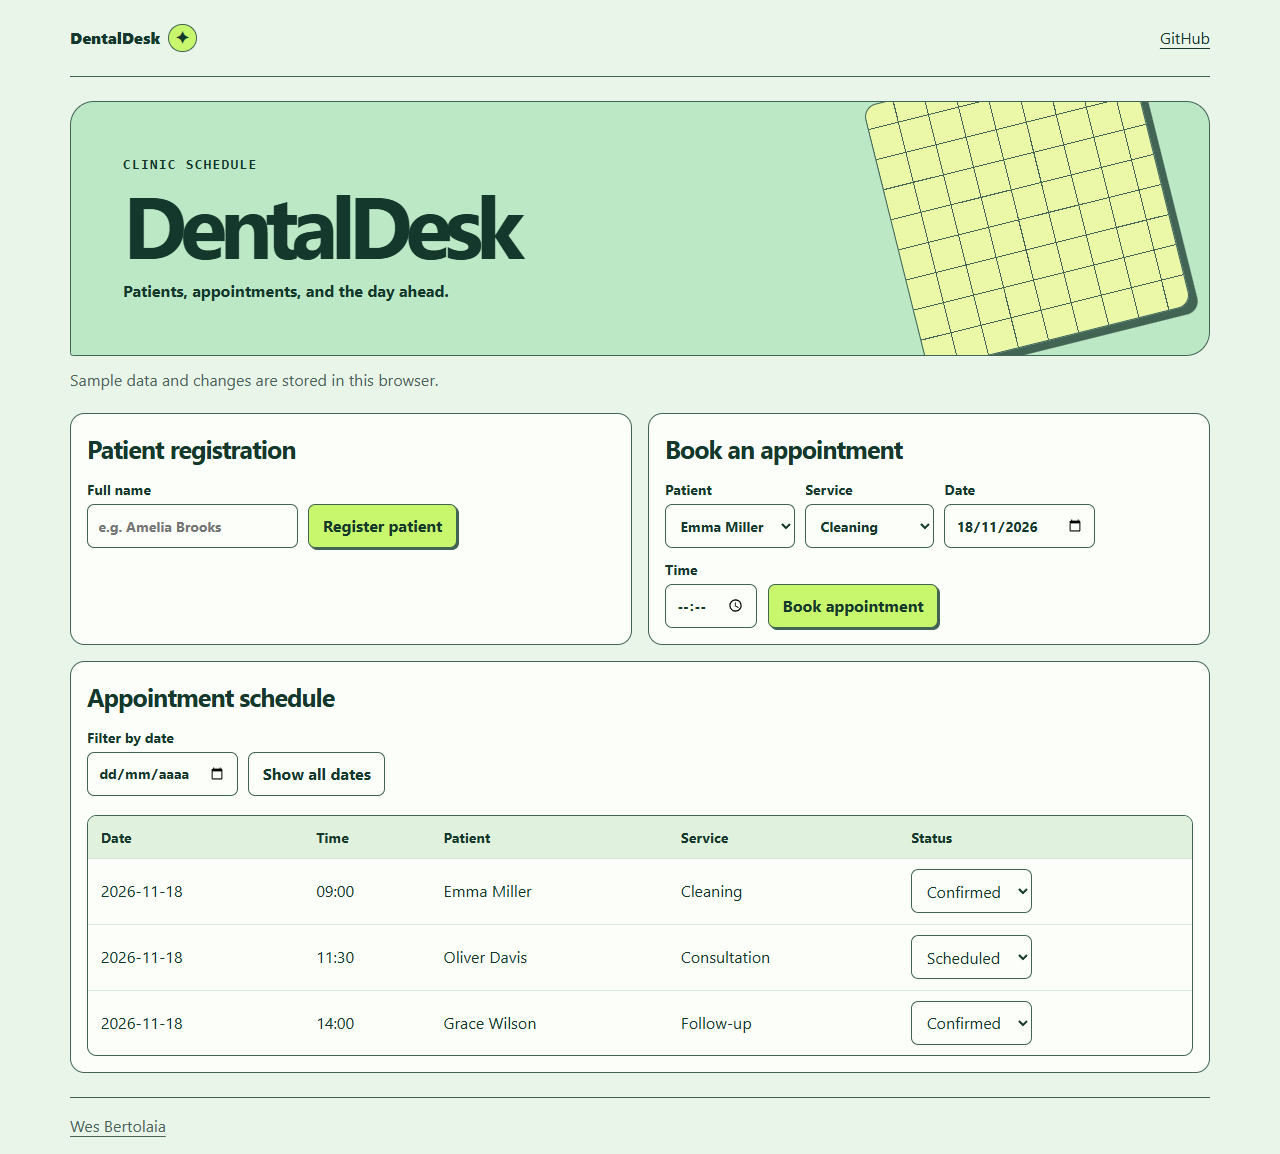
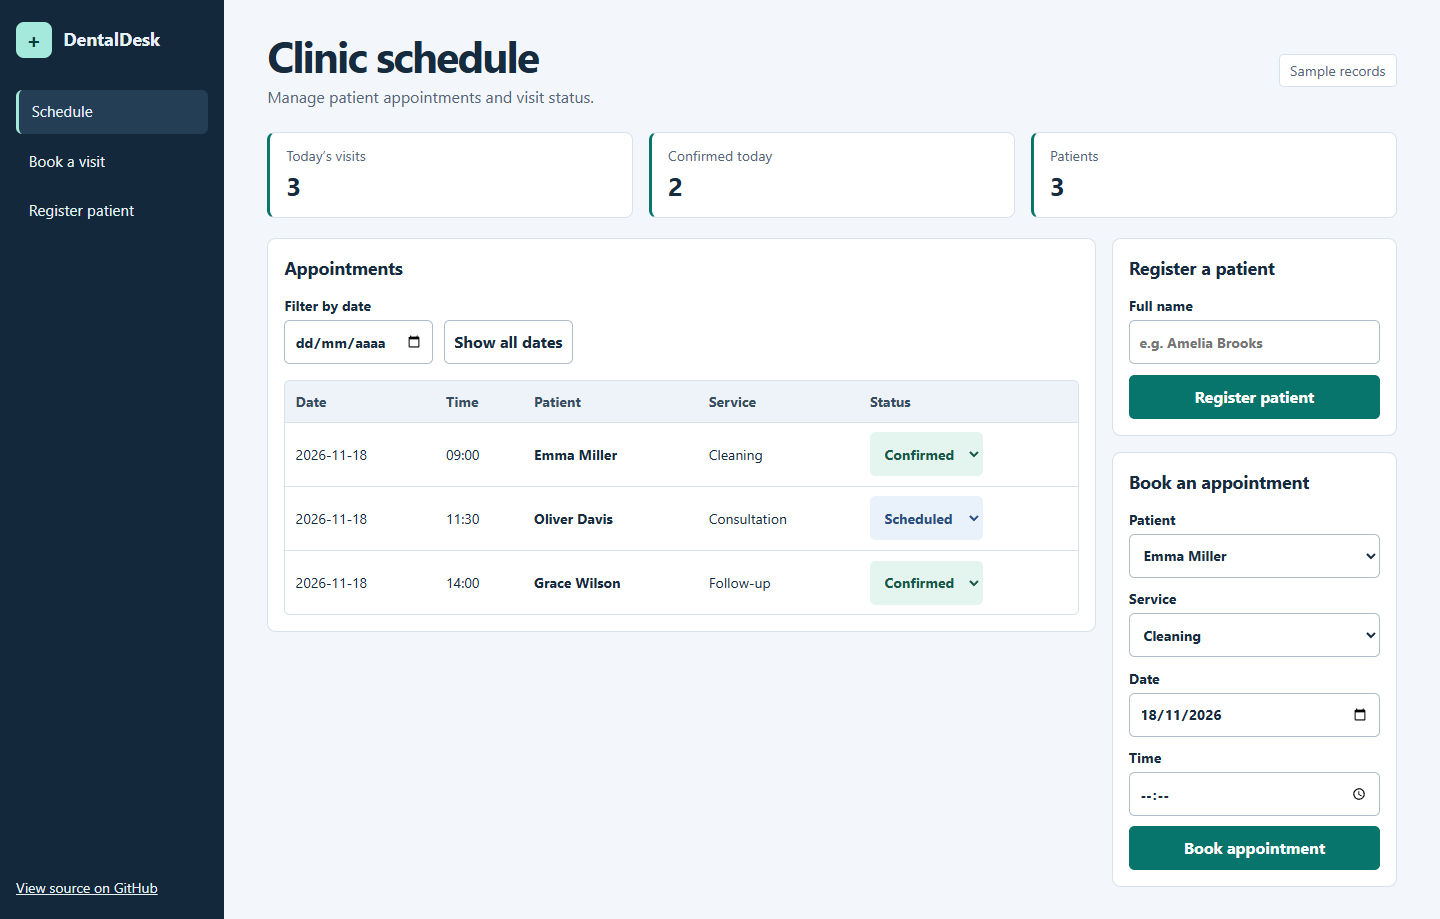
Redesign DentalDesk as a clinical workspace

diff --git a/public/style.css b/public/style.css
@@ -1,68 +1,70 @@
-
 :root {
   color-scheme: light;
-  --ink: #15382c;
-  --paper: #eaf5ea;
-  --accent: #c8f66c;
-  --line: #416454;
-  --muted: #4b6459;
-  --white: #fcfff9;
+  --ink: #172b3e;
+  --muted: #526579;
+  --line: #d9e2ea;
+  --teal: #08756d;
+  --white: #fff;
+  font: 16px/1.5 "Segoe UI", system-ui, sans-serif;
   color: var(--ink);
-  font: 16px/1.5 system-ui, sans-serif;
+  background: #f3f6fa;
 }
 * { box-sizing: border-box; }
-body { margin: 0; background: var(--paper); }
-a { color: inherit; text-underline-offset: .25em; }
-.shell { width: min(1140px, calc(100% - 42px)); margin-inline: auto; }
-.top, footer { display: flex; align-items: center; justify-content: space-between; gap: 1rem; padding-block: 1rem; }
-.top { border-bottom: 1px solid var(--line); }
-.brand { display: flex; align-items: center; gap: .5rem; min-height: 44px; font-weight: 850; text-decoration: none; }
-.brand span { display: grid; place-items: center; width: 1.8rem; height: 1.8rem; background: var(--accent); border: 1px solid var(--line); border-radius: 50%; font-size: 0; }
-.brand span::before { content: "✦"; font-size: 1rem; }
-#demo { padding-block: 1.5rem; }
-.demo-header {
-  position: relative; overflow: hidden; isolation: isolate;
-  min-height: 205px; padding: clamp(1.4rem, 5vw, 3.25rem);
-  border: 1px solid var(--line); border-radius: 1.5rem 1.5rem 1.5rem .2rem;
-  background: #bde8c6;
-}
-.demo-header::after {
-  position: absolute; z-index: -1;
-  content: ""; width: 270px; height: 270px; right: 4%; top: -32px;
-  background: repeating-linear-gradient(0deg, transparent 0 30px, #416454 30px 31px), repeating-linear-gradient(90deg, #eaf8a8 0 30px, #416454 30px 31px);
-  border: 1px solid var(--line); border-radius: .85rem;
-  transform: rotate(-14deg); box-shadow: 7px 8px 0 var(--line);
-}
-.eyebrow { margin: 0 0 .45rem; font: 700 .875rem/1.5 ui-monospace, monospace; letter-spacing: .09em; }
-h1, h3, p { margin: 0; }
-h1 { font-size: clamp(2.65rem, 8vw, 5.45rem); line-height: .95; letter-spacing: -.085em; }
-h3 { font-size: clamp(1.25rem, 3vw, 1.55rem); letter-spacing: -.035em; }
-.tagline { margin-top: .85rem; font-weight: 650; }
-.help { margin-block: .75rem 1.35rem; color: var(--muted); }
-.demo-app { min-width: 0; }
-.demo-app dental-desk { display: grid; grid-template-columns: 1fr 1fr; gap: 1rem; }
-.work-card { min-width: 0; padding: 1rem; border: 1px solid var(--line); border-radius: .9rem; background: var(--white); }
-.schedule { grid-column: 1 / -1; }
-.work-card form { margin-bottom: 0; }
-.work-card:first-child input { width: min(100%, 220px); }
-form, .filters { display: flex; flex-wrap: wrap; align-items: end; gap: .65rem; margin-block: .75rem 1.2rem; }
-label { display: grid; gap: .25rem; min-width: 0; max-width: 100%; font-size: .875rem; font-weight: 650; }
-input, select, button { min-height: 44px; max-width: 100%; padding: .48rem .65rem; border: 1px solid var(--line); border-radius: .45rem; background: var(--white); color: var(--ink); font: inherit; }
-button { padding-inline: .85rem; background: var(--accent); font-weight: 750; box-shadow: 2px 2px 0 var(--line); cursor: pointer; }
-button:hover { background: #b7ee51; }
-button:active { box-shadow: none; transform: translate(2px, 2px); }
-button.secondary { background: var(--white); box-shadow: none; }
-:focus-visible { outline: 3px solid #296655; outline-offset: 3px; }
-.notice:not(:empty) { margin-block: .5rem; padding: .5rem .75rem; border-left: 3px solid var(--line); background: var(--white); }
-.table-wrap { overflow: auto; border: 1px solid var(--line); border-radius: .6rem; background: var(--white); }
-table { width: 100%; border-collapse: collapse; white-space: nowrap; text-align: left; }
-th, td { padding: .65rem .8rem; border-bottom: 1px solid #d9e9dd; }
-th { font-size: .875rem; background: #e0f1dd; }
+body { margin: 0; display: grid; grid-template-columns: 224px minmax(0, 1fr); min-height: 100vh; }
+a { color: inherit; }
+.sidebar { background: #13283b; color: #e8f1f8; padding: 1.35rem 1rem; display: flex; flex-direction: column; gap: 2rem; }
+.brand { display: flex; align-items: center; gap: .7rem; font-weight: 750; font-size: 1.125rem; text-decoration: none; }
+.brand-mark { display: grid; place-items: center; width: 36px; height: 36px; border-radius: .5rem; background: #a4e9dc; color: #093f39; font: 750 1.4rem/1 system-ui, sans-serif; }
+.sidebar nav { display: grid; gap: .3rem; }
+.sidebar nav a { border-radius: .4rem; padding: .68rem .8rem; text-decoration: none; font-size: .95rem; }
+.sidebar nav a:hover, .sidebar nav a:focus-visible { background: #2b485f; }
+.sidebar nav a[href="#schedule"] { background: #243e55; border-left: 3px solid #a4e9dc; }
+.sidebar > a:last-child { margin-top: auto; font-size: .875rem; }
+.workspace { min-width: 0; padding: 2rem clamp(1rem, 3vw, 3rem); }
+.demo-header { display: flex; justify-content: space-between; align-items: center; flex-wrap: wrap; gap: 1rem; margin-bottom: 1.4rem; }
+h1, h2, p { margin: 0; }
+h1 { font-size: clamp(1.9rem, 4vw, 2.7rem); line-height: 1.1; letter-spacing: -.045em; }
+h2 { font-size: 1.1rem; }
+.help { margin-top: .35rem; color: var(--muted); }
+.demo-label { padding: .3rem .65rem; border: 1px solid var(--line); border-radius: .3rem; background: var(--white); color: var(--muted); font-size: .875rem; }
+.metrics { display: grid; grid-template-columns: repeat(3, minmax(0, 1fr)); gap: 1rem; margin: 0 0 1.25rem; }
+.metrics div { background: var(--white); border: 1px solid var(--line); border-left: 3px solid var(--teal); border-radius: .5rem; padding: .8rem 1rem; }
+.metrics dt { color: var(--muted); font-size: .875rem; }
+.metrics dd { margin: 0; font-size: 1.6rem; font-weight: 700; font-variant-numeric: tabular-nums; }
+.desk-grid { display: grid; grid-template-columns: minmax(0, 1fr) 285px; gap: 1rem; align-items: start; }
+.actions { display: grid; gap: 1rem; }
+.panel { min-width: 0; background: var(--white); border: 1px solid var(--line); border-radius: .55rem; padding: 1rem; scroll-margin-top: 1rem; }
+form, .filters { display: grid; gap: .65rem; margin-top: .85rem; }
+.filters { display: flex; flex-wrap: wrap; align-items: end; margin-bottom: 1rem; }
+label { display: grid; gap: .25rem; font-size: .875rem; font-weight: 650; min-width: 0; }
+input, select, button { min-height: 44px; min-width: 0; max-width: 100%; padding: .45rem .6rem; border-radius: .35rem; border: 1px solid #afbdca; background: var(--white); color: var(--ink); font: inherit; }
+button { background: var(--teal); color: white; border-color: var(--teal); font-weight: 650; cursor: pointer; }
+button:hover { background: #055c56; }
+button.secondary { color: var(--ink); background: var(--white); border-color: #afbdca; }
+button.secondary:hover { background: #ecf3f7; }
+:focus-visible { outline: 3px solid #2586a4; outline-offset: 2px; }
+.notice:not(:empty) { margin-bottom: 1rem; padding: .65rem .8rem; background: #e5f4f0; color: #17544b; border-left: 3px solid var(--teal); }
+.table-wrap { overflow: auto; border: 1px solid var(--line); border-radius: .35rem; }
+table { width: 100%; border-collapse: collapse; white-space: nowrap; text-align: left; font-size: .875rem; }
+th, td { padding: .6rem .65rem; border-bottom: 1px solid var(--line); }
+th { background: #edf3f8; color: #364d62; }
 tr:last-child td { border-bottom: 0; }
-td:nth-child(2) { font-variant-numeric: tabular-nums; }
-footer { border-top: 1px solid var(--line); color: var(--muted); }
-@media (max-width: 760px) {
-  .demo-header::after { right: -140px; top: -105px; opacity: .28; }
-  .demo-header { min-height: 170px; }
-  .demo-app dental-desk { grid-template-columns: minmax(0, 1fr); }
+td:nth-child(3) { font-weight: 650; }
+td select { border: 1px solid transparent; font-weight: 650; }
+td select[data-status="Scheduled"] { background: #e9f1fb; color: #294f80; }
+td select[data-status="Confirmed"] { background: #e4f5ef; color: #195848; }
+td select[data-status="Completed"] { background: #eff0f6; color: #38435d; }
+td select[data-status="Cancelled"] { background: #fbecec; color: #8a3535; }
+@media (max-width: 1180px) { body { grid-template-columns: 176px minmax(0, 1fr); } .desk-grid { grid-template-columns: minmax(0, 1fr); } .actions { grid-template-columns: repeat(2, minmax(0, 1fr)); } }
+@media (max-width: 700px) {
+  body { display: block; }
+  .sidebar { gap: .65rem; padding: .75rem 1rem; }
+  .sidebar nav { display: flex; flex-wrap: wrap; }
+  .sidebar nav a { padding: .55rem; }
+  .sidebar > a:last-child { align-self: start; }
+  .workspace { padding-top: 1.15rem; }
+  .metrics { gap: .4rem; }
+  .metrics div { padding: .45rem; }
+  .metrics dt { font-size: .8rem; }
+  .actions { grid-template-columns: 1fr; }
 }

diff --git a/dentaldesk.js b/dentaldesk.js
@@ -22,6 +22,14 @@ class DentalDesk {
   statuses = statuses;
   notice = '';
 
+  get todayAppointments() {
+    return this.data.appointments.filter((item) => item.date === this.date && item.status !== 'Cancelled');
+  }
+
+  get confirmedToday() {
+    return this.todayAppointments.filter((item) => item.status === 'Confirmed').length;
+  }
+
   get appointments() {
     return this.data.appointments.filter((item) => !this.filter || item.date === this.filter)
       .sort((a, b) => (a.date + a.time).localeCompare(b.date + b.time));
@@ -88,12 +96,37 @@ class DentalDesk {
 Component({
   selector: 'dental-desk',
   template: `
-    <section class="work-card"><h3>Patient registration</h3>
+    <dl class="metrics" aria-label="Practice overview">
+      <div><dt>Today’s visits</dt><dd>{{todayAppointments.length}}</dd></div>
+      <div><dt>Confirmed today</dt><dd>{{confirmedToday}}</dd></div>
+      <div><dt>Patients</dt><dd>{{data.patients.length}}</dd></div>
+    </dl>
+    <p class="notice" role="status">{{notice}}</p>
+    <div class="desk-grid">
+      <section class="panel" id="schedule">
+        <h2>Appointments</h2>
+    <div class="filters"><label>Filter by date <input type="date" [value]="filter" (input)="filter = $any($event.target).value"></label>
+      <button type="button" class="secondary" (click)="filter = ''">Show all dates</button></div>
+    <div class="table-wrap" tabindex="0" aria-label="Appointment schedule"><table>
+      <thead><tr><th>Date</th><th>Time</th><th>Patient</th><th>Service</th><th>Status</th></tr></thead>
+      <tbody>
+        @for (item of appointments; track item.id) {
+          <tr><td>{{item.date}}</td><td>{{item.time}}</td><td>{{patientName(item.patient)}}</td><td>{{item.service}}</td>
+            <td><select [attr.data-status]="item.status" [attr.aria-label]="'Status for ' + patientName(item.patient)" [value]="item.status" (change)="updateStatus(item.id, $event.target)">
+              @for (status of statuses; track status) {
+                <option [value]="status" [selected]="item.status === status">{{status}}</option>
+              }
+            </select></td></tr>
+        } @empty { <tr><td colspan="5">No appointments for this date.</td></tr> }
+      </tbody>
+    </table></div></section>
+      <div class="actions">
+        <section class="panel" id="patients"><h2>Register a patient</h2>
     <form (submit)="addPatient($event)">
       <label>Full name <input name="name" required maxlength="80" placeholder="e.g. Amelia Brooks"></label>
       <button type="submit">Register patient</button>
     </form>
-    </section><section class="work-card"><h3>Book an appointment</h3>
+    </section><section class="panel" id="booking"><h2>Book an appointment</h2>
     <form (submit)="book($event)">
       <label>Patient <select aria-label="Patient" name="patient" required>
         @for (patient of data.patients; track patient.id) {
@@ -105,23 +138,9 @@ Component({
       <label>Time <input type="time" name="time" required></label>
       <button type="submit">Book appointment</button>
     </form>
-    </section><section class="work-card schedule"><p class="notice" role="status">{{notice}}</p>
-    <h3>Appointment schedule</h3>
-    <div class="filters"><label>Filter by date <input type="date" [value]="filter" (input)="filter = $any($event.target).value"></label>
-      <button type="button" class="secondary" (click)="filter = ''">Show all dates</button></div>
-    <div class="table-wrap" tabindex="0" aria-label="Appointment schedule"><table>
-      <thead><tr><th>Date</th><th>Time</th><th>Patient</th><th>Service</th><th>Status</th></tr></thead>
-      <tbody>
-        @for (item of appointments; track item.id) {
-          <tr><td>{{item.date}}</td><td>{{item.time}}</td><td>{{patientName(item.patient)}}</td><td>{{item.service}}</td>
-            <td><select [attr.aria-label]="'Status for ' + patientName(item.patient)" [value]="item.status" (change)="updateStatus(item.id, $event.target)">
-              @for (status of statuses; track status) {
-                <option [value]="status" [selected]="item.status === status">{{status}}</option>
-              }
-            </select></td></tr>
-        } @empty { <tr><td colspan="5">No appointments for this date.</td></tr> }
-      </tbody>
-    </table></div></section>
+    </section>
+      </div>
+    </div>
   `,
 })(DentalDesk);
 

diff --git a/public/index.html b/public/index.html
@@ -3,31 +3,31 @@
 <head>
   <meta charset="utf-8">
   <meta name="viewport" content="width=device-width, initial-scale=1">
-  <meta name="description" content="A dental practice scheduling demo.">
-  <title>DentalDesk | Angular Demo</title>
+  <meta name="description" content="DentalDesk dental practice scheduling demo.">
+  <title>DentalDesk | Clinic Schedule</title>
   <link rel="icon" href="data:,">
   <link rel="stylesheet" href="./style.css">
   <script type="module" src="./app.js"></script>
 </head>
 <body>
-  <header class="shell top">
-    <a class="brand" href="./">DentalDesk<span>.</span></a>
-    <nav aria-label="Main navigation">
-      <a href="https://github.com/wesbertolaia/dentaldesk">GitHub</a>
+  <aside class="sidebar">
+    <a class="brand" href="./"><span class="brand-mark" aria-hidden="true">+</span> DentalDesk</a>
+    <nav aria-label="Clinic workspace">
+      <a href="#schedule">Schedule</a>
+      <a href="#booking">Book a visit</a>
+      <a href="#patients">Register patient</a>
     </nav>
-  </header>
-  <main class="shell">
-    <section id="demo" aria-labelledby="demo-title">
-      <header class="demo-header">
-        <div>
-          <p class="eyebrow">CLINIC SCHEDULE</p>
-          <h1 id="demo-title">DentalDesk</h1><p class="tagline">Patients, appointments, and the day ahead.</p>
-        </div>
-      </header>
-      <p class="help">Sample data and changes are stored in this browser.</p>
-      <div class="demo-app"></div>
-    </section>
+    <a href="https://github.com/wesbertolaia/dentaldesk">View source on GitHub</a>
+  </aside>
+  <main class="workspace" id="demo">
+    <header class="demo-header">
+      <div>
+        <h1>Clinic schedule</h1>
+        <p class="help">Manage patient appointments and visit status.</p>
+      </div>
+      <span class="demo-label" title="Changes are stored in this browser">Sample records</span>
+    </header>
+    <div class="demo-app"></div>
   </main>
-  <footer class="shell"><a href="https://github.com/wesbertolaia/">Wes Bertolaia</a></footer>
 </body>
 </html>
